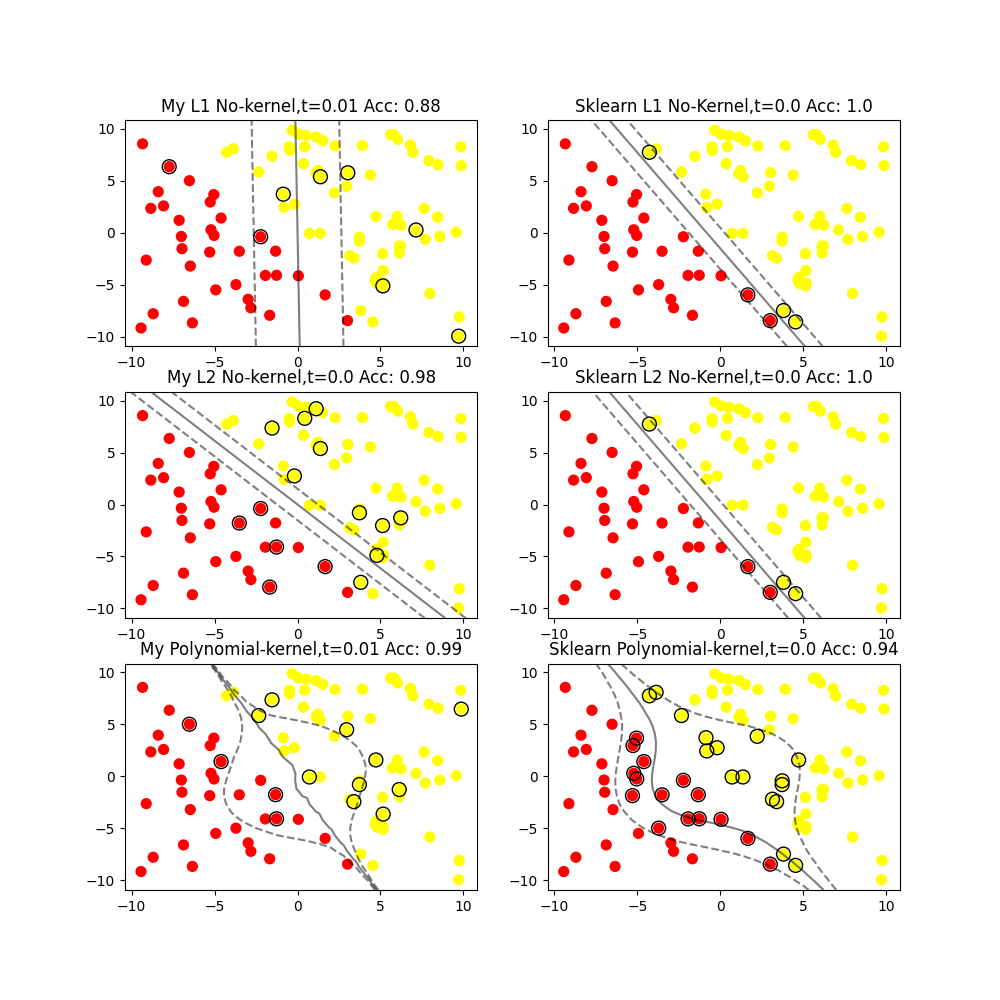
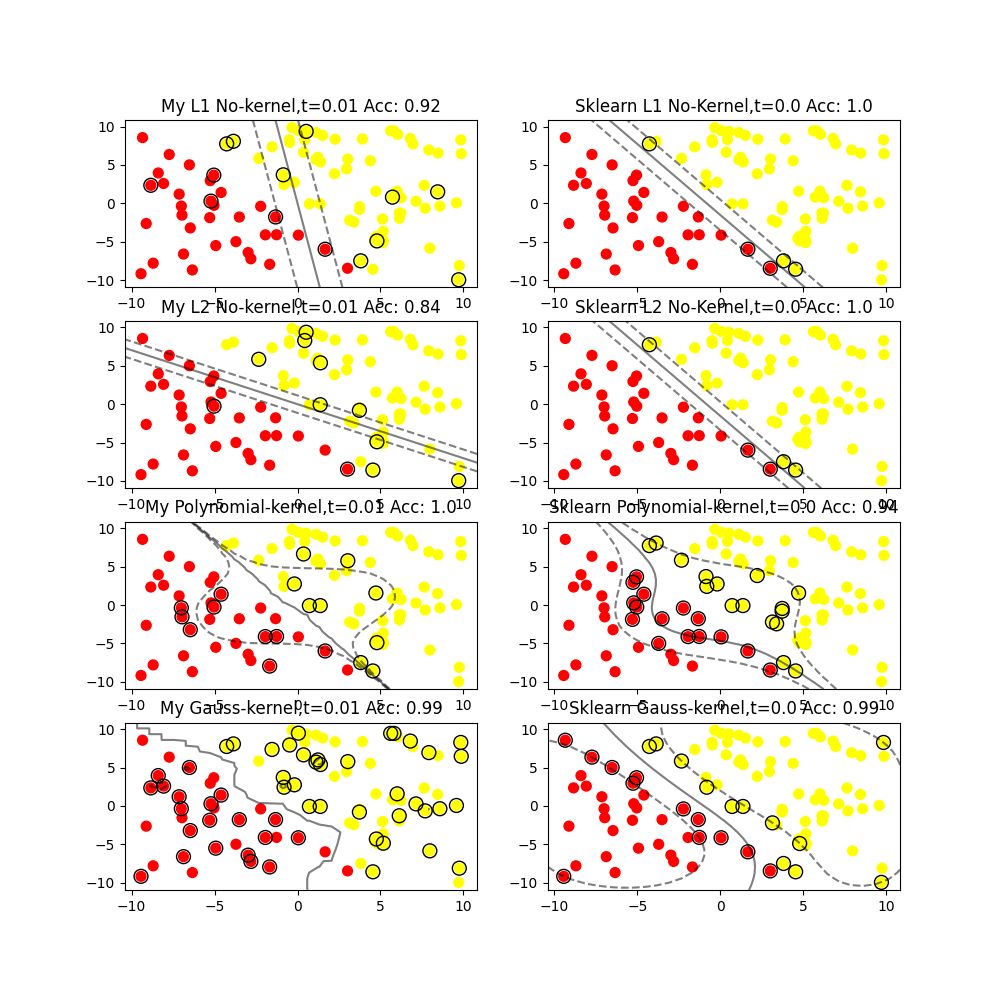
feat: 高斯核函数

Changed region(s): [[0.527, 0.124, 0.899, 0.899], [0.093, 0.093, 0.496, 0.899], [0.093, 0.434, 0.124, 0.465]]

diff --git a/main.py b/main.py
@@ -6,13 +6,15 @@ import pandas as pd
 from matplotlib import pyplot as plt
 
 from model.SVM import SoftMarginKernelSVM
-from model.algorithm.kernels import no_kernel, polynomial_kernel
+from model.algorithm.kernels import no_kernel, polynomial_kernel, gaussian_kernel
 from model.algorithm.utils import draw
 from sklearn.svm import SVC, LinearSVC
 
 # Init
 
-fig, ((ax1, ax2), (ax3, ax4), (ax5, ax6)) = plt.subplots(3, 2, figsize=(10, 10))
+fig, ((ax1, ax2), (ax3, ax4), (ax5, ax6), (ax7, ax8)) = plt.subplots(4, 2, figsize=(10, 15))
+# fig.tight_layout()
+
 data = pd.read_csv("linear_hard_margin.csv")
 X, Y = data.iloc[:, :-1], data.iloc[:, -1]
 
@@ -63,6 +65,20 @@ model = SVC(kernel='poly')
 model.fit(X, Y)
 end = time.time()
 draw(model, X, Y, ax6, f"Sklearn Polynomial-kernel,t={round(end - begin, 2)}")
+
+# 软间隔 高斯核函数 SVM
+begin = time.time()
+model = SoftMarginKernelSVM(kernel=partial(gaussian_kernel, c=2))
+model.fit(X.values, Y.values[:, np.newaxis])
+end = time.time()
+draw(model, X, Y, ax7, f"My Gauss-kernel,t={round(end - begin, 2)}")
+
+# Sklearn 高斯核函数
+begin = time.time()
+model = SVC(kernel='rbf')
+model.fit(X, Y)
+end = time.time()
+draw(model, X, Y, ax8, f"Sklearn Gauss-kernel,t={round(end - begin, 2)}")
 
 plt.show()
 fig.savefig("Last.png")
